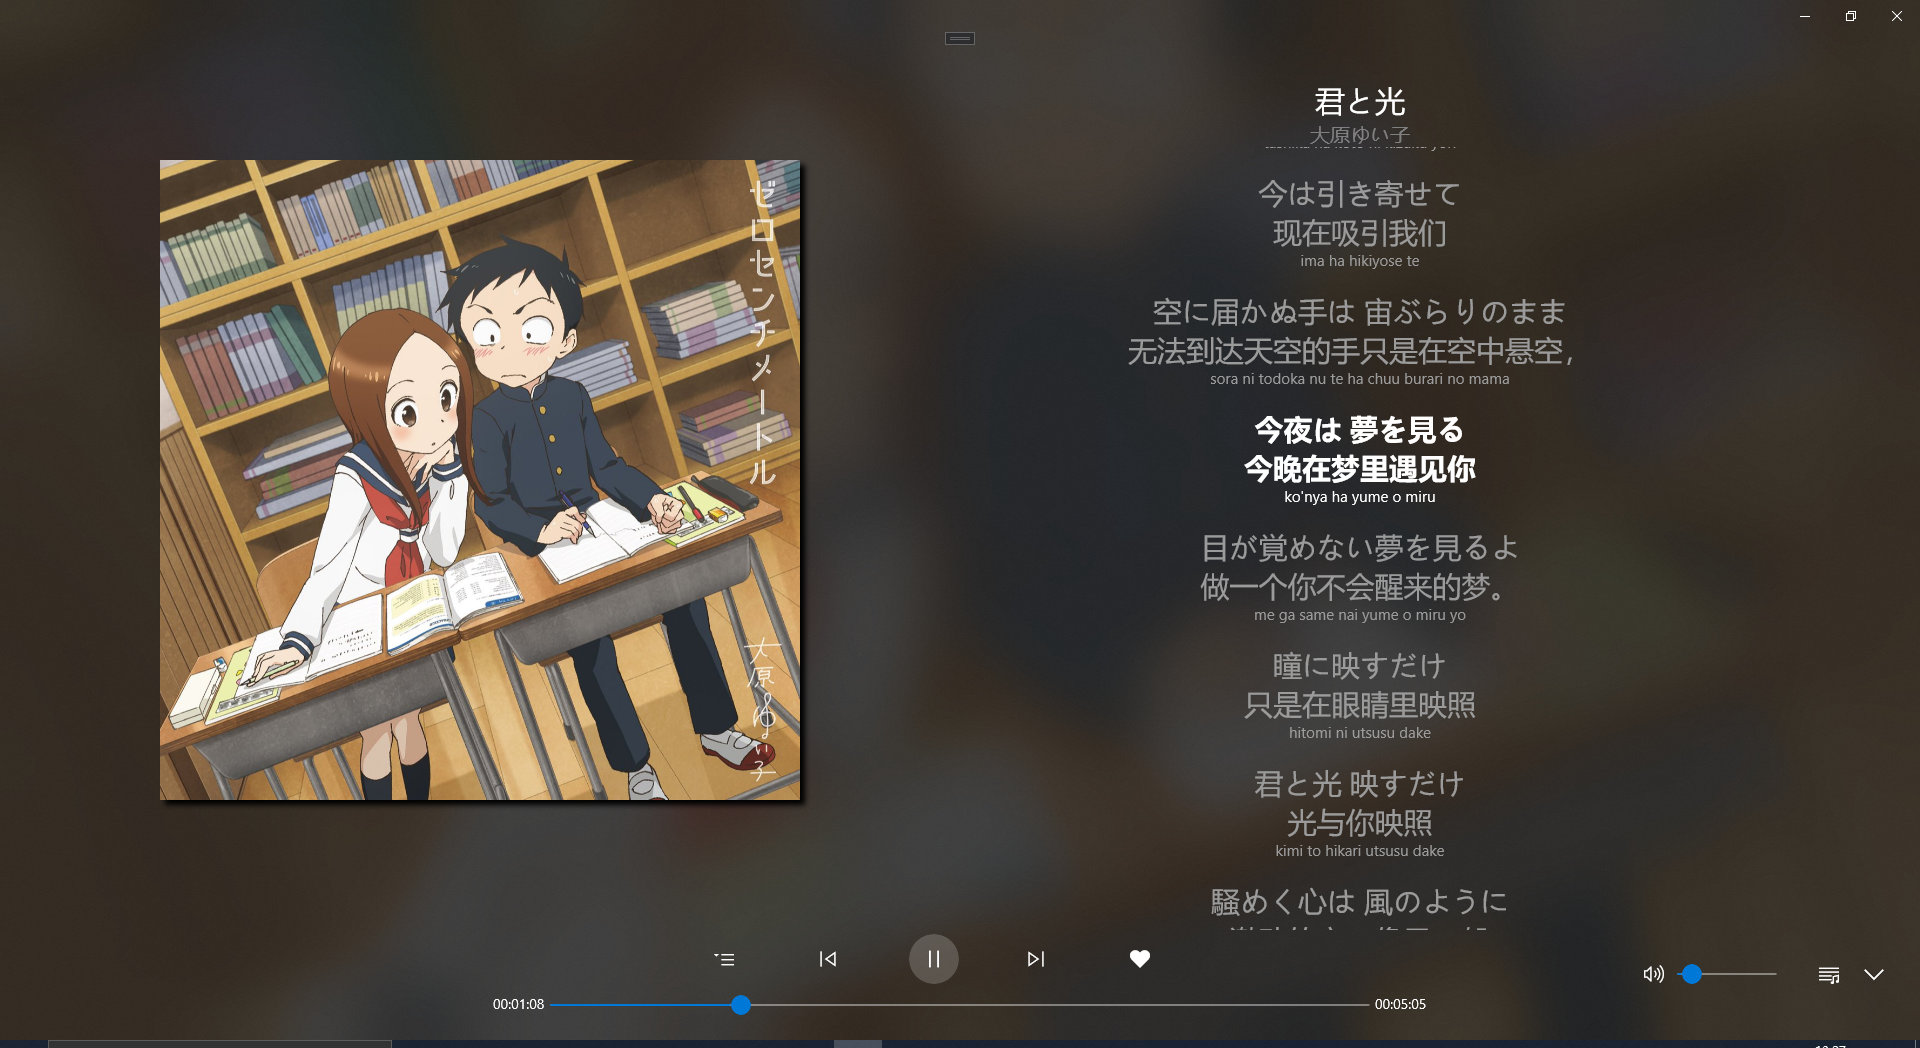
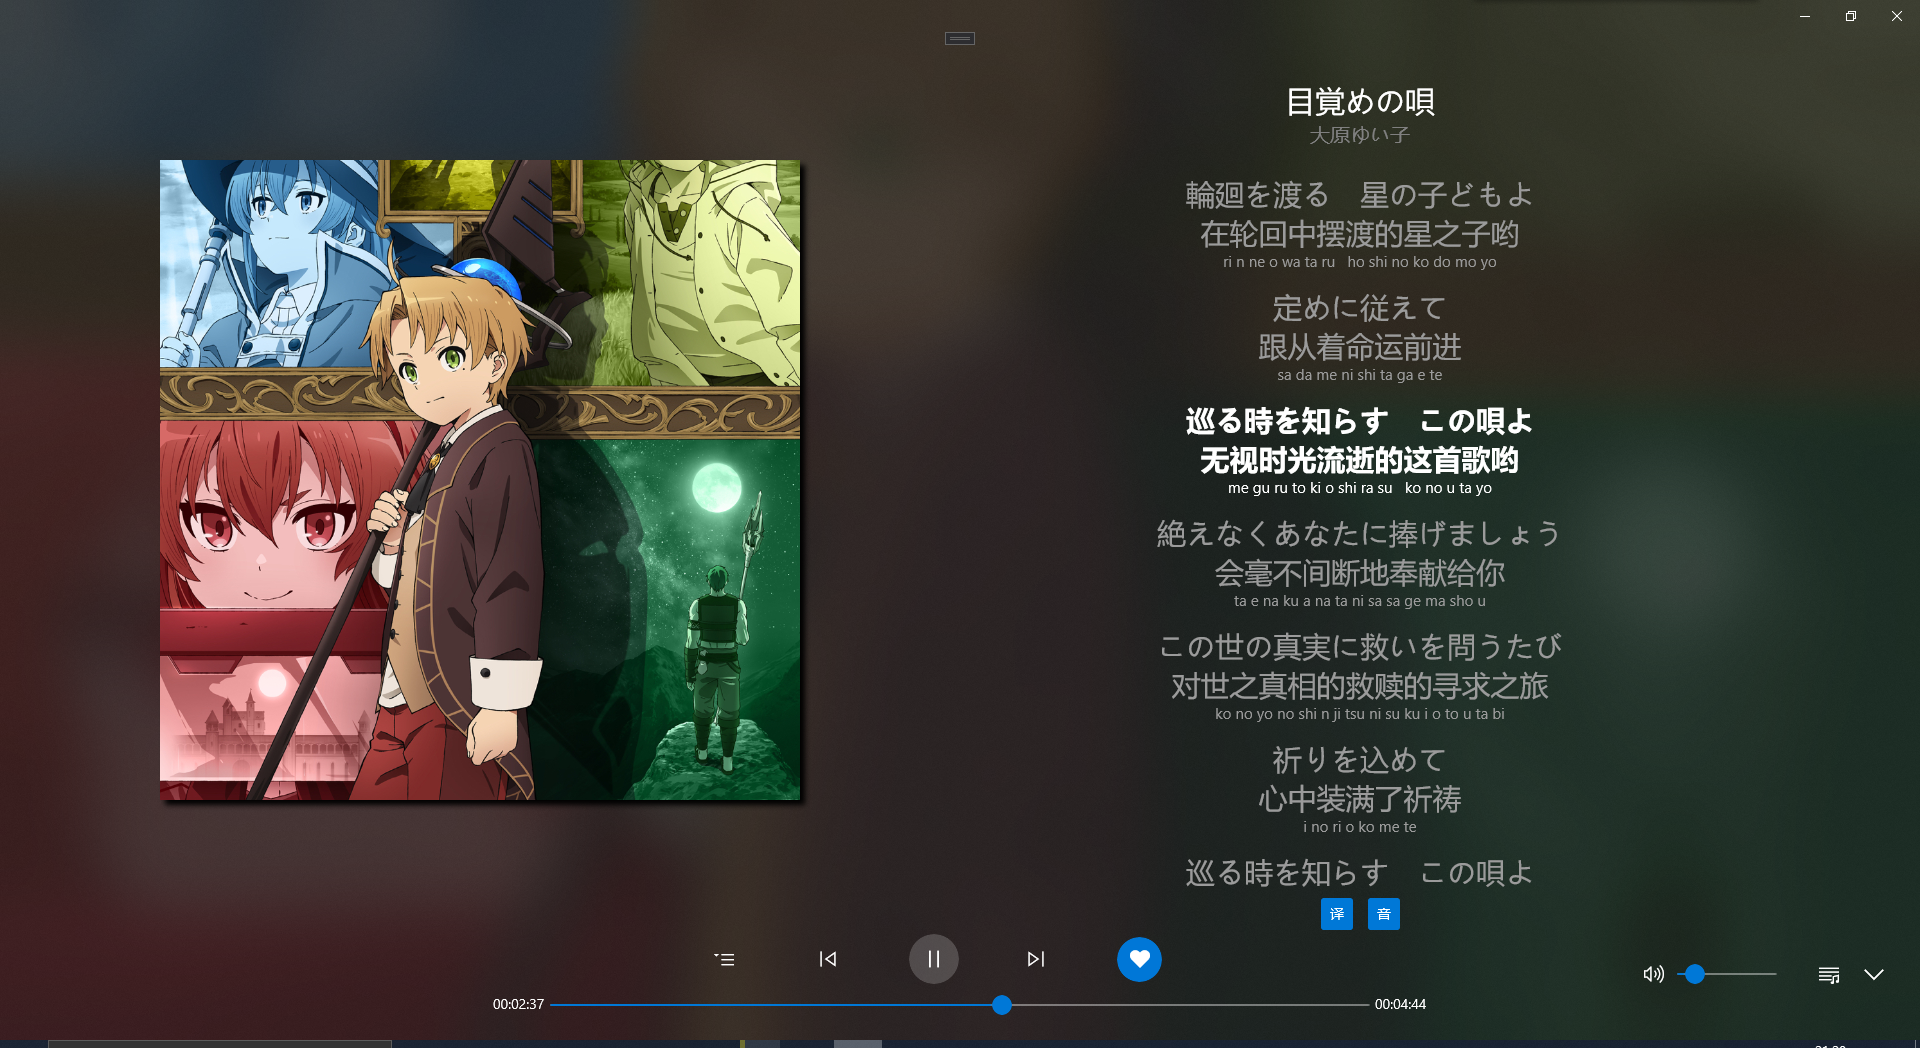
支持歌词显示模式自定义
说人话就是可以选择显示翻译或歌词 支持同时显示

顺带说一下,国内播放器显示歌词不支持罗马音和翻译一起显示,我就纳闷了,难道没人和我一样想一起看的吗?

diff --git a/HyPlayer/Pages/ExpandedPlayer.xaml b/HyPlayer/Pages/ExpandedPlayer.xaml
@@ -254,6 +254,20 @@
                 Foreground="Gray"
                 FontSize="20"
                 Text="歌手" />
+            <StackPanel
+                Spacing="15"
+                HorizontalAlignment="Center"
+                controls:DockPanel.Dock="Bottom"
+                Orientation="Horizontal">
+                <ToggleButton
+                    Name="ToggleButtonTranslation"
+                    Click="ToggleButtonTranslation_OnClick"
+                    Content="译" />
+                <ToggleButton
+                    Click="ToggleButtonSound_OnClick"
+                    Name="ToggleButtonSound"
+                    Content="音" />
+            </StackPanel>
             <ScrollViewer
                 Margin="0,5"
                 x:FieldModifier="public"
@@ -262,6 +276,7 @@
                 HorizontalScrollBarVisibility="Hidden">
                 <ScrollViewer.Content>
                     <StackPanel
+                        Spacing="15"
                         PointerWheelChanged="LyricBoxContainer_OnPointerWheelChanged"
                         Name="LyricBox"
                         Orientation="Vertical"

diff --git a/HyPlayer/Pages/ExpandedPlayer.xaml.cs b/HyPlayer/Pages/ExpandedPlayer.xaml.cs
@@ -48,6 +48,8 @@ namespace HyPlayer.Pages
             HyPlayList.OnPlayPositionChange += HyPlayList_OnPlayPositionChange;
             Window.Current.SizeChanged += Current_SizeChanged;
             Current_SizeChanged(null, null);
+            ToggleButtonSound.IsChecked = Common.ShowLyricSound;
+            ToggleButtonTranslation.IsChecked = Common.ShowLyricTrans;
         }
 
         public void Dispose()
@@ -165,7 +167,6 @@ namespace HyPlayer.Pages
                 {
                     LyricItem lrcitem = new LyricItem(songLyric)
                     {
-                        Margin = new Thickness(0, 10, 0, 10),
                         Width = LyricWidth
                     };
                     LyricBox.Children.Add(lrcitem);
@@ -174,8 +175,17 @@ namespace HyPlayer.Pages
             LyricBox.Children.Add(new Grid() { Height = blanksize });
             LyricList = LyricBox.Children.OfType<LyricItem>().ToList();
             lastlrcid = HyPlayList.NowPlayingItem.GetHashCode();
-            SongLyric nowlrc = HyPlayList.Lyrics.LastOrDefault((t => t.LyricTime < HyPlayList.Player.PlaybackSession.Position));
-            RefreshLyricTime(nowlrc);
+            Task.Run((() =>
+            {
+                Common.Invoke((async () =>
+                {
+                    await Task.Delay(500);
+                    SongLyric nowlrc =
+                        HyPlayList.Lyrics.LastOrDefault((t =>
+                            t.LyricTime < HyPlayList.Player.PlaybackSession.Position));
+                    RefreshLyricTime(nowlrc);
+                }));
+            }));
         }
 
 
@@ -291,6 +301,8 @@ namespace HyPlayer.Pages
                 });
                 _ = ApplicationView.GetForCurrentView().TryEnterViewModeAsync(ApplicationViewMode.CompactOverlay);
                 iscompact = true;
+                ToggleButtonTranslation.Visibility = Visibility.Collapsed;
+                ToggleButtonSound.Visibility = Visibility.Collapsed;
             }
             else
             {
@@ -303,6 +315,8 @@ namespace HyPlayer.Pages
                 });
                 _ = ApplicationView.GetForCurrentView().TryEnterViewModeAsync(ApplicationViewMode.Default);
                 ImageAlbumContainer.Visibility = Window.Current.Bounds.Width >= 800 ? Visibility.Visible : Visibility.Collapsed;
+                ToggleButtonTranslation.Visibility = Visibility.Visible;
+                ToggleButtonSound.Visibility = Visibility.Visible;
                 iscompact = false;
             }
         }
@@ -357,6 +371,18 @@ namespace HyPlayer.Pages
                 ImageAlbumContainer.Visibility = Visibility.Visible;
                 StackPanelTiny.Visibility = Visibility.Collapsed;
             }
+        }
+
+        private void ToggleButtonTranslation_OnClick(object sender, RoutedEventArgs e)
+        {
+            Common.ShowLyricTrans = ToggleButtonTranslation.IsChecked.Value;
+            LoadLyricsBox();
+        }
+
+        private void ToggleButtonSound_OnClick(object sender, RoutedEventArgs e)
+        {
+            Common.ShowLyricSound = ToggleButtonSound.IsChecked.Value;
+            LoadLyricsBox();
         }
     }
 }

diff --git a/HyPlayer/Controls/LyricItem.xaml.cs b/HyPlayer/Controls/LyricItem.xaml.cs
@@ -31,7 +31,7 @@ namespace HyPlayer.Controls
             TextBoxTranslation.FontSize = actualsize;
             Lrc = lrc;
             TextBoxPureLyric.Text = Lrc.PureLyric;
-            if (Lrc.HaveTranslation)
+            if (Lrc.HaveTranslation && Common.ShowLyricTrans)
             {
                 TextBoxTranslation.Text = Lrc.Translation;
             }
@@ -40,7 +40,7 @@ namespace HyPlayer.Controls
                 TextBoxTranslation.Visibility = Visibility.Collapsed;
             }
 
-            if (Common.KawazuConv != null)
+            if (Common.KawazuConv != null && Common.ShowLyricSound)
             {
                 Task.Run(() =>
                 {
@@ -53,6 +53,10 @@ namespace HyPlayer.Controls
 
                     }));
                 });
+            }
+            else
+            {
+                TextBoxSound.Visibility = Visibility.Collapsed;
             }
 
             OnHind();

diff --git a/HyPlayer/Common.cs b/HyPlayer/Common.cs
@@ -22,6 +22,8 @@ namespace HyPlayer
         public static PlayBar BarPlayBar;
         public static Frame BaseFrame;
         public static Setting Setting;
+        public static bool ShowLyricSound = true;
+        public static bool ShowLyricTrans = false;
         public static Dictionary<string, object> GLOBAL = new Dictionary<string, object>();
         public static List<string> LikedSongs = new List<string>();
         public static KawazuConverter KawazuConv = null;
